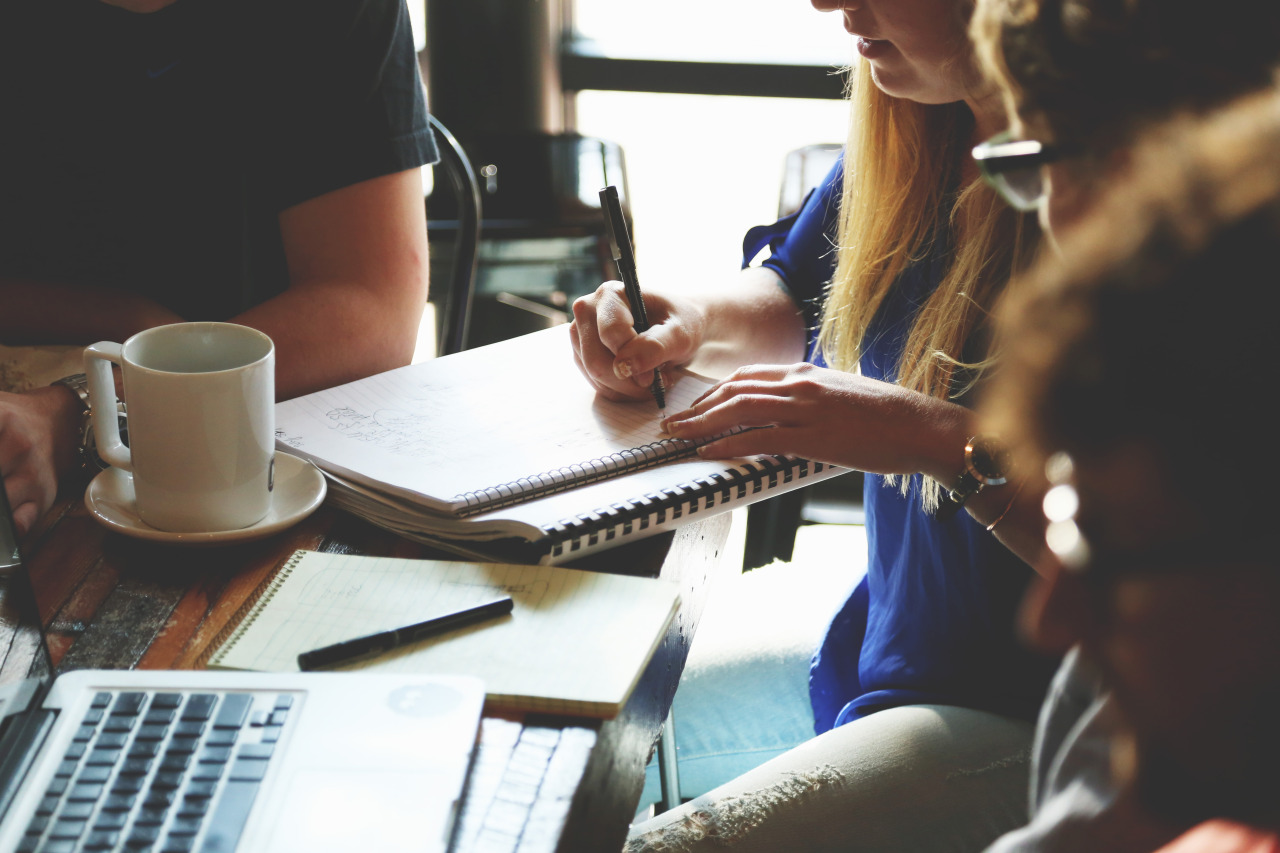
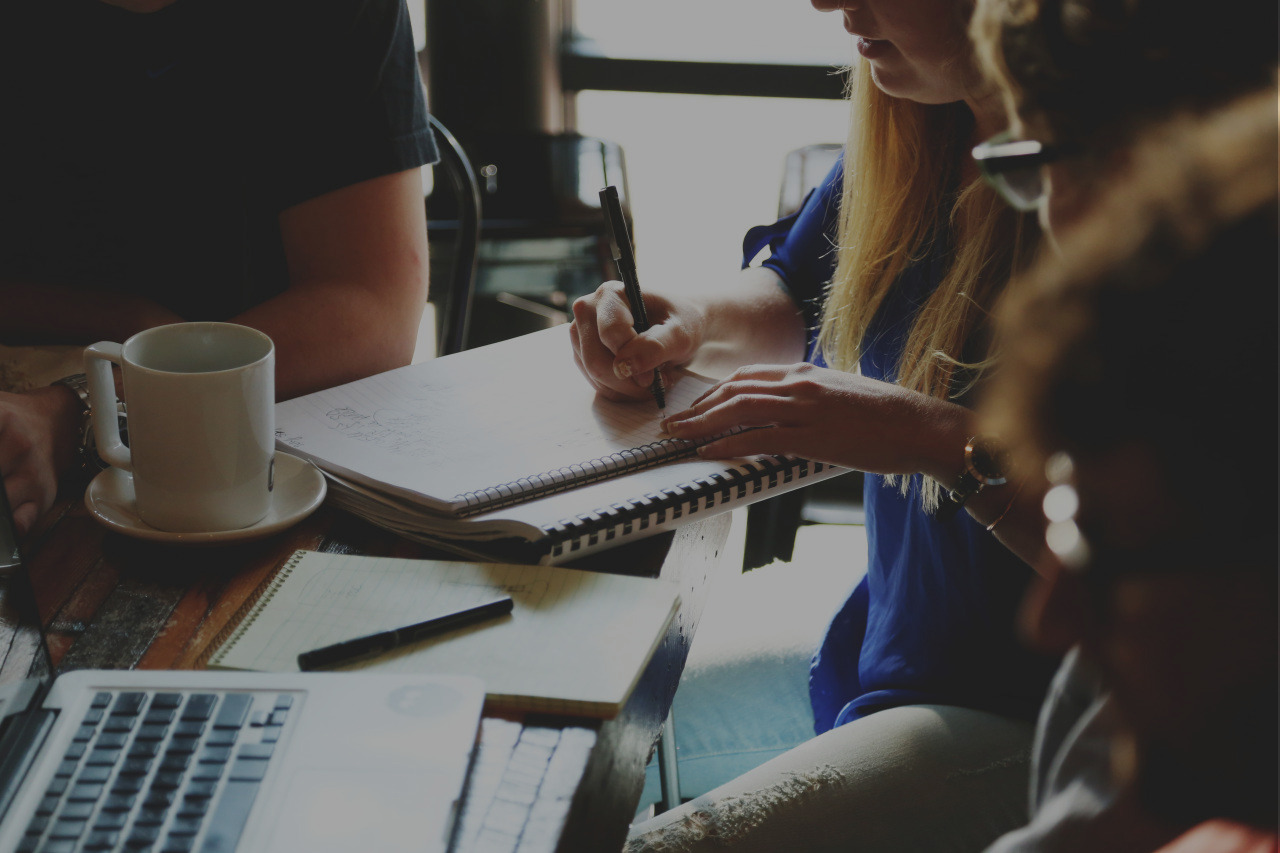
front de la page a propos et des pages d'erreurs de connection

diff --git a/app/assets/stylesheets/pages/_about.scss b/app/assets/stylesheets/pages/_about.scss
@@ -6,33 +6,40 @@
   }
   // =============== BLOC IMAGE ET QUOTE
   #souhait {
-    background: image-url("acteurs-emploi.png") repeat;
-    // min-height: 400px;
-    h1 {
-      margin: 0;
-      padding-top: 60px;
-      padding-bottom: 100px;                                                                                                                                                                                                                                             bottom: 30px;
+    background: image-url("initiatives-pour-lemploi.jpg") no-repeat fixed center;
+    -webkit-background-size: cover;
+    -moz-background-size: cover;
+    -o-background-size: cover;
+    background-size: cover;
+    min-height: 400px;
+    p {
+      margin-top: 60px;
+      padding-top: 100px;
+      font-size: 60px;
+      color: white;
+      font-family: $my-font;                                                                                                                                                                                                                                   bottom: 30px;
     }
   }
 
   // =========== BLOC MISSION
 
-  #mission {
-    margin-top: 60px;
-    min-height: 500px;
-    // background-color: #f1f1f1;
-
-  }
-  #edito p {
-    text-align: justify;
+  #edito {
+    p {
+      text-align: justify;
+    }
+    .paragraphe {
+      padding-bottom: 25px;
+    }
   }
 
   // =========== L'emploi en france
   #emploi {
     background: image-url("acteurs-emploi.png") repeat;
     min-height: 400px;
-    h2 {
+    h1 {
       padding-bottom: 50px;
+      font-size: 60px;
+      color: white;
     }
   }
 
@@ -57,14 +64,26 @@
     font-size: 60px;
     color: white;
   }
-  // =========== LOVE YOUR JOB
+  // =========== ILS NOUS SOUTIENNENT
   #loveyourjob {
     background: image-url("acteurs-emploi.png") repeat;
-    height: 150px;
+    // min-height: 300px;
+    p {
+      font-size: 60px;
+      color: white;
+      font-family: $my-font;
+      padding-bottom: 50px;
+      padding-top: 50px;
+    }
   }
   .soutien {
     img {
-      width: 100px;
+      height: 50px;
+      text-align: center;
+    }
+    ul {
+      padding-top: 50px;
+      padding-bottom: 50px;
     }
   }
 }

diff --git a/app/assets/stylesheets/pages/devise/_registration_create.scss b/app/assets/stylesheets/pages/devise/_registration_create.scss
@@ -1,4 +1,4 @@
-#devise_passwords_new, #devise_passwords_create {
+#devise_registrations_create {
   #navbar-workup {
     .navbar-nav {
       margin-top: 15px;
@@ -7,15 +7,12 @@
 
   background: image-url('eight_horns.png') repeat;
   margin-top: 100px;
-  #password {
+  #signup {
     background-color: white;
-    margin-bottom: 40px;
     text-align: center;
     padding: 25px;
+    margin-bottom: 40px;
     border-radius: 3px;
-    p {
-      font-size: 14px;
-    }
     img {
       margin-top: 20px;
       margin-bottom: 20px;
@@ -29,5 +26,9 @@
       margin-top: 5px;
       // width: 250px;
     }
+  }
+  .btn-facebook {
+    background-color: rgb(59, 89, 152);
+    color: white;
   }
 }

diff --git a/app/assets/stylesheets/pages/devise/_session_create.scss b/app/assets/stylesheets/pages/devise/_session_create.scss
@@ -1,4 +1,4 @@
-#devise_passwords_new, #devise_passwords_create {
+#devise_sessions_create {
   #navbar-workup {
     .navbar-nav {
       margin-top: 15px;
@@ -7,15 +7,13 @@
 
   background: image-url('eight_horns.png') repeat;
   margin-top: 100px;
-  #password {
+
+  #signin {
     background-color: white;
-    margin-bottom: 40px;
     text-align: center;
+    margin-bottom: 40px;
     padding: 25px;
     border-radius: 3px;
-    p {
-      font-size: 14px;
-    }
     img {
       margin-top: 20px;
       margin-bottom: 20px;
@@ -29,5 +27,9 @@
       margin-top: 5px;
       // width: 250px;
     }
+  }
+  .btn-facebook {
+    background-color: rgb(59, 89, 152);
+    color: white;
   }
 }

diff --git a/app/assets/stylesheets/pages/_index.scss b/app/assets/stylesheets/pages/_index.scss
@@ -15,3 +15,5 @@
 @import "devise/sign_up";
 @import "devise/password";
 @import "devise/edit";
+@import "devise/session_create";
+@import "devise/registration_create";
